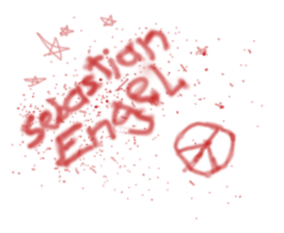
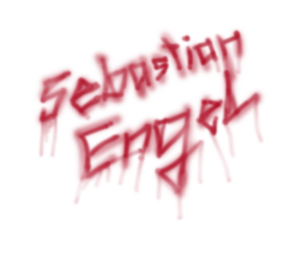
HTML5

diff --git a/style.css b/style.css
@@ -1,4 +1,4 @@
-body,html{
+body,html {
     background:url(grfx/fundal.jpg);
     font-family:Myriad,Verdana,Geneva,Arial,helvetica,sans-serif;
     height:100%;
@@ -6,12 +6,12 @@ body,html{
     padding:0;
 }
 
-td{
+td  {
     font-family:Myriad,Verdana,Geneva,Arial,helvetica,sans-serif;
     font-weight:normal;
 }
 
-a{
+a {
     font:20px Myriad,Verdana,Geneva,Arial,helvetica,sans-serif;
     color:#CC0000;
     text-decoration:overline;
@@ -23,44 +23,31 @@ a:hover{
 }
 
 #wrap {    
-    width: 809px;
+    width: 800px;
+    height: 300px;
     margin: auto;
     margin-top: 30px;
     border: 0px #000000 solid;
 }
 
-.sign{
+.sign {
     display:none;
 }
 
 .field {    
     width: 200px;
-    float: left;
-}
-
-#rand_r {
-    width: 9px;
-    float: left;
-}
-
-#rand_u {
-    width: 809px;
+    height: 300px;
     float: left;
 }
 
 #menu {
-    width: 809px;
+    width: 750px;
     height: 50px;
+    margin-top: 10px;
     padding-left: 50px;
     color: #CC0000;
     font-size: 20px;
     float: left;
-}
-
-#counter {
-    width: 809px;
-    float: left;
-    text-align: center;
 }
 
 #name {
@@ -69,10 +56,30 @@ a:hover{
 }
 
 #email {
-    width: 359px;
+    width: 350px;
     float: left;
 }
 
 .img {
     border: 0;
+}
+
+.field img {
+    width: 200px;
+    height: 300px;
+}
+
+.plate {
+    float: left;
+    box-shadow: 5px 5px 5px #000000;
+}
+
+.html5 {
+    float: left;
+    width: 100%;
+}
+
+.html5 img {
+    margin: 10px auto;
+    display: block;
 }

diff --git a/index.php b/index.php
@@ -1,42 +1,43 @@
-<!DOCTYPE html PUBLIC "-//W3C//DTD XHTML 1.0 Strict//EN" "http://www.w3.org/TR/xhtml1/DTD/xhtml1-strict.dtd">
-<html xmlns="http://www.w3.org/1999/xhtml">
+<!doctype html>
 <head>
-<script type="text/javascript">
-<!-- 
-intro_1=new Image();intro_1.src="grfx/intro_1.jpg";
-intro_1_ro=new Image();intro_1_ro.src="grfx/intro_1_ro.jpg";
- 
-intro_2=new Image();intro_2.src="grfx/intro_2.jpg";
-intro_2_ro=new Image();intro_2_ro.src="grfx/intro_2_ro.jpg";
- 
-intro_3=new Image();intro_3.src="grfx/intro_3.jpg";
-intro_3_ro=new Image();intro_3_ro.src="grfx/intro_3_ro.jpg";
- 
-intro_4=new Image();intro_4.src="grfx/intro_4.jpg";
-intro_4_ro=new Image();intro_4_ro.src="grfx/intro_4_ro.jpg";
-
-function rein1(img,ref) { document.images[img].src = ref; } 
-function raus1(img,ref) { document.images[img].src = ref; }
-
-function text_in(id)
-{
-	if (document.getElementById) {
-		document.getElementById(id).style.display="block";
-	}
-}
-
-function text_out(id) 
-{
-	if (document.getElementById) {
-		document.getElementById(id).style.display="none";
-	}
-}
-
-//-->
-</script>
-<meta http-equiv="Content-Type" content="text/html; charset=utf-8" />
-<title>i-wars.net</title>
-<link href="style.css" rel="stylesheet" type="text/css" media="screen" />
+    <meta charset="UTF-8">
+        
+    <script type="text/javascript">
+    <!-- 
+    intro_1=new Image();intro_1.src="grfx/intro_1.jpg";
+    intro_1_ro=new Image();intro_1_ro.src="grfx/intro_1_ro.jpg";
+     
+    intro_2=new Image();intro_2.src="grfx/intro_2.jpg";
+    intro_2_ro=new Image();intro_2_ro.src="grfx/intro_2_ro.jpg";
+     
+    intro_3=new Image();intro_3.src="grfx/intro_3.jpg";
+    intro_3_ro=new Image();intro_3_ro.src="grfx/intro_3_ro.jpg";
+     
+    intro_4=new Image();intro_4.src="grfx/intro_4.jpg";
+    intro_4_ro=new Image();intro_4_ro.src="grfx/intro_4_ro.jpg";
+    
+    function rein1(img,ref) { document.images[img].src = ref; } 
+    function raus1(img,ref) { document.images[img].src = ref; }
+    
+    function text_in(id)
+    {
+    	if (document.getElementById) {
+    		document.getElementById(id).style.display="block";
+    	}
+    }
+    
+    function text_out(id) 
+    {
+    	if (document.getElementById) {
+    		document.getElementById(id).style.display="none";
+    	}
+    }
+    
+    //-->
+    </script>
+    
+    <title>i-wars.net</title>
+    <link href="style.css" rel="stylesheet" type="text/css" media="screen" />
 </head>
 
 <body>
@@ -44,24 +45,21 @@ function text_out(id)
 
 
 <div id="wrap">
-    <div class="field">
-        <img src="grfx/intro_1.jpg" usemap="#Map" id="platzhalter1" alt="Forum" class="img" />
+    <div class="plate">
+        <div class="field">
+            <img src="grfx/intro_1.jpg" usemap="#Map" id="platzhalter1" alt="Forum" class="img" />
+        </div>
+        <div class="field">
+            <img src="grfx/intro_2.jpg" usemap="#Map2" id="platzhalter2" alt="Weblog" class="img" />
+        </div>
+        <div class="field">
+            <img src="grfx/intro_3.jpg" usemap="#Map3" id="platzhalter3" alt="Chat" class="img" />
+        </div>
+        <div class="field">
+            <img src="grfx/intro_4.jpg" usemap="#Map4" id="platzhalter4" alt="Galerie" class="img" />
+        </div>
     </div>
-    <div class="field">
-        <img src="grfx/intro_2.jpg" width="200px" height="300px" usemap="#Map2" id="platzhalter2" alt="Weblog" class="img" />
-    </div>
-    <div class="field">
-        <img src="grfx/intro_3.jpg" width="200px" height="300px" usemap="#Map3" id="platzhalter3" alt="Chat" class="img" />
-    </div>
-    <div class="field">
-        <img src="grfx/intro_4.jpg" width="200px" height="300px" usemap="#Map4" id="platzhalter4" alt="Galerie" class="img" />
-    </div>
-    <div id="rand_r">
-        <img src="grfx/rand_r.png" width="9px" height="300px" alt="Rand" class="img" />
-    </div>
-    <div id="rand_u">
-        <!-- <img src="grfx/rand_u.png" alt="" /> -->
-    </div>
+    
     <div id="menu">
         <div id="forum" class="sign">communication</div>
         <div id="weblog" class="sign">illumination</div>
@@ -69,16 +67,16 @@ function text_out(id)
         <div id="galerie" class="sign">pixlumination</div>
     </div>
     <div id="name">
-    <a href="mailto:mail@sebastian-engel.de"><img src="grfx/se002.png" alt="Sebastian Engel" class="img" /></a>
+    <a href="mailto:mail@sebastian-engel.de"><img src="grfx/se.png" alt="Sebastian Engel" class="img"></a>
     </div>
     <div id="email">
-        <a href="mailto:mail@sebastian-engel.de" name="E-Mail"><img src="grfx/mm.png" alt="E-Mail" class="img" /></a>
+        <a href="mailto:mail@sebastian-engel.de"><img src="grfx/mm.png" alt="E-Mail" class="img"></a>
     </div>
-    <div id="counter">
-		<p>
-		  <a href="http://validator.w3.org/check?uri=referer"><img src="http://www.w3.org/Icons/valid-xhtml10" alt="Valid XHTML 1.0 Strict" height="31" width="88" class="img" /></a>
-        </p>
+    
+    <div class="html5">
+        <a href="http://validator.w3.org/check?uri=http%3A%2F%2Fi-wars.net%2F"><img src="grfx/HTML5_Logo_64.png" alt="HTML5"></a>
     </div>
+    
 </div>
 
 
